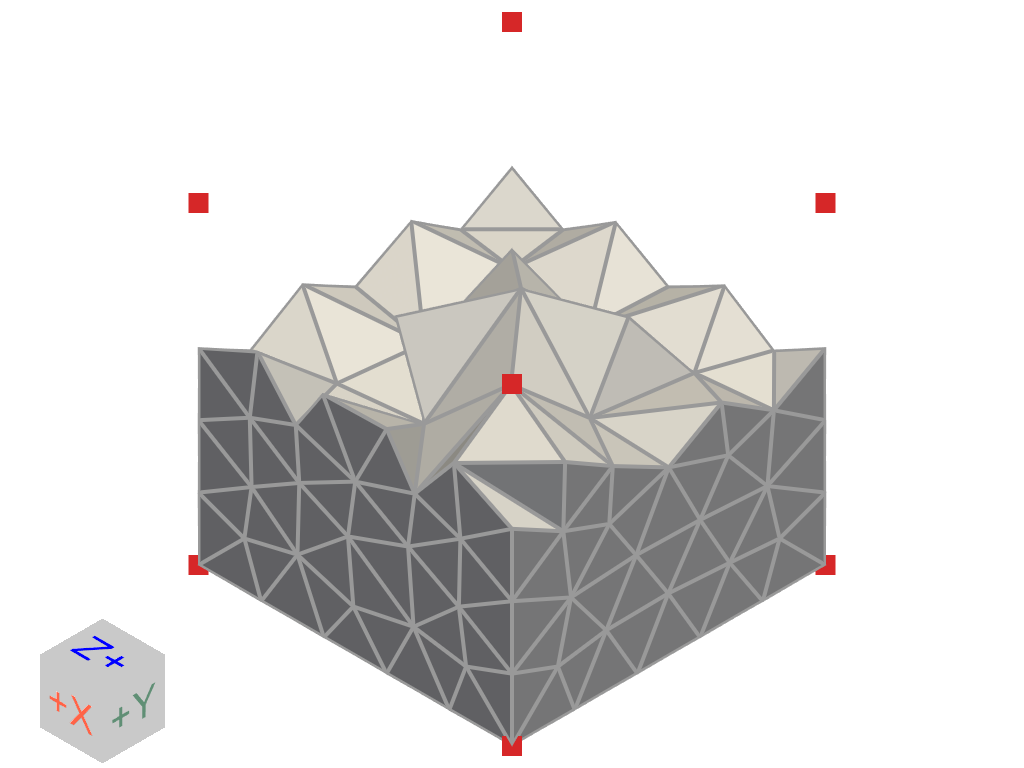
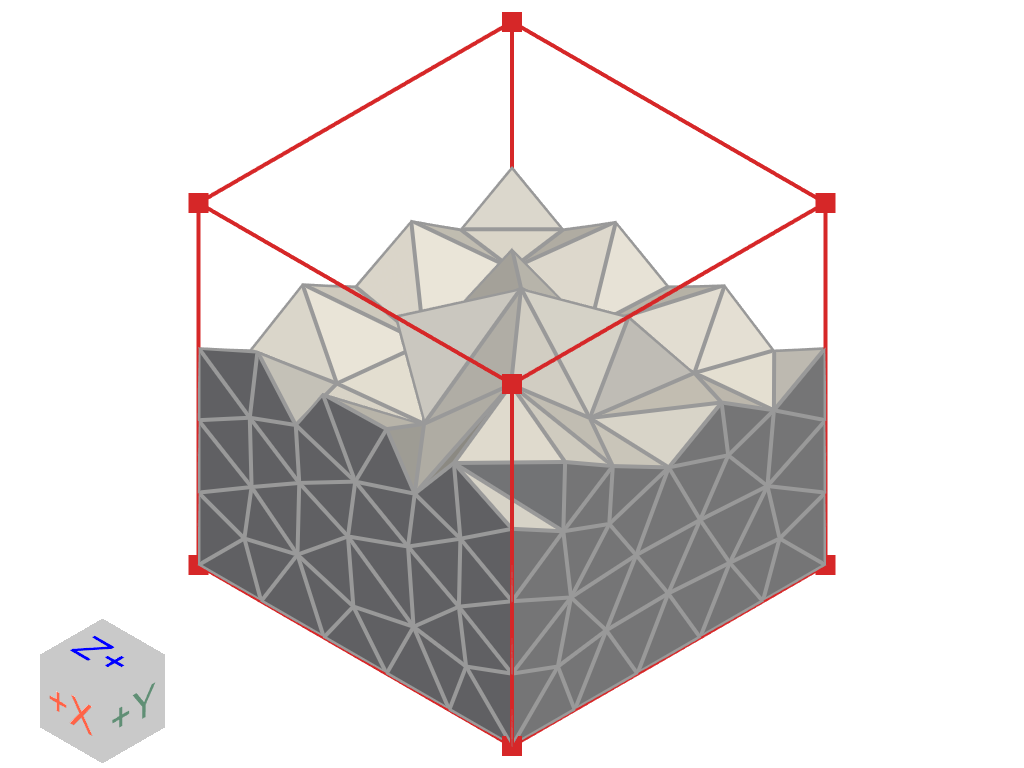
Update docs/_static/delaunay_3d_02.png

diff --git a/src/pvgmsh/__init__.py b/src/pvgmsh/__init__.py
@@ -174,6 +174,7 @@ def delaunay_3d(
     ...     lighting=True,
     ...     edge_color=[153, 153, 153],
     ... )
+    >>> _ = plotter.add_mesh(edge_source.extract_all_edges(), line_width=4, color=[214, 39, 40])
     >>> _ = plotter.add_points(
     ...     edge_source.points, style="points", point_size=20, color=[214, 39, 40]
     ... )
